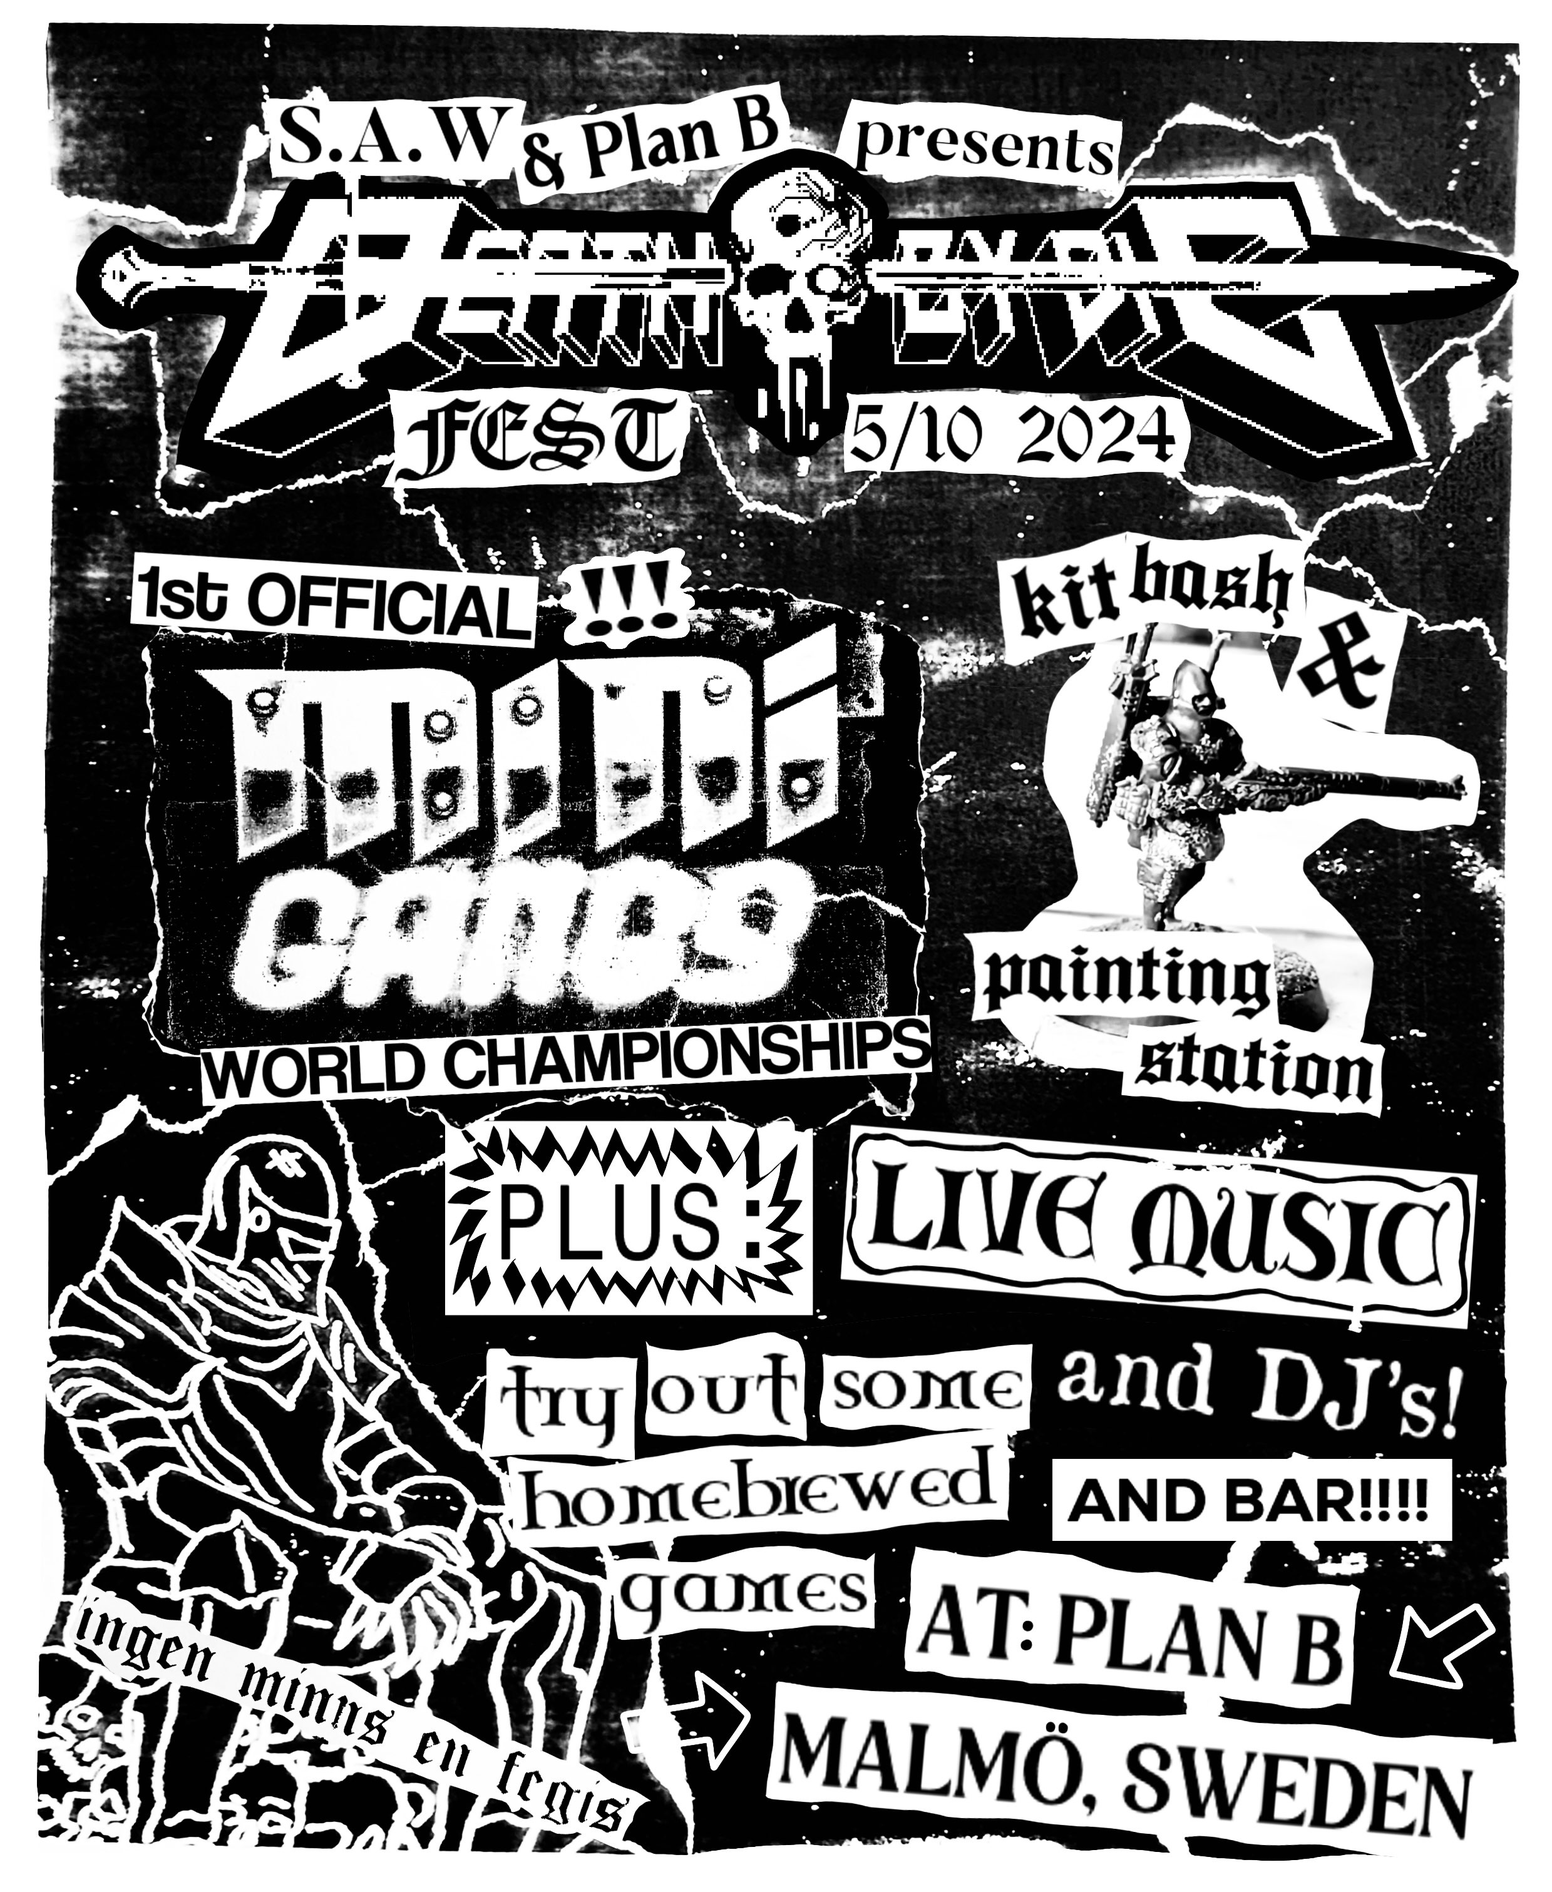
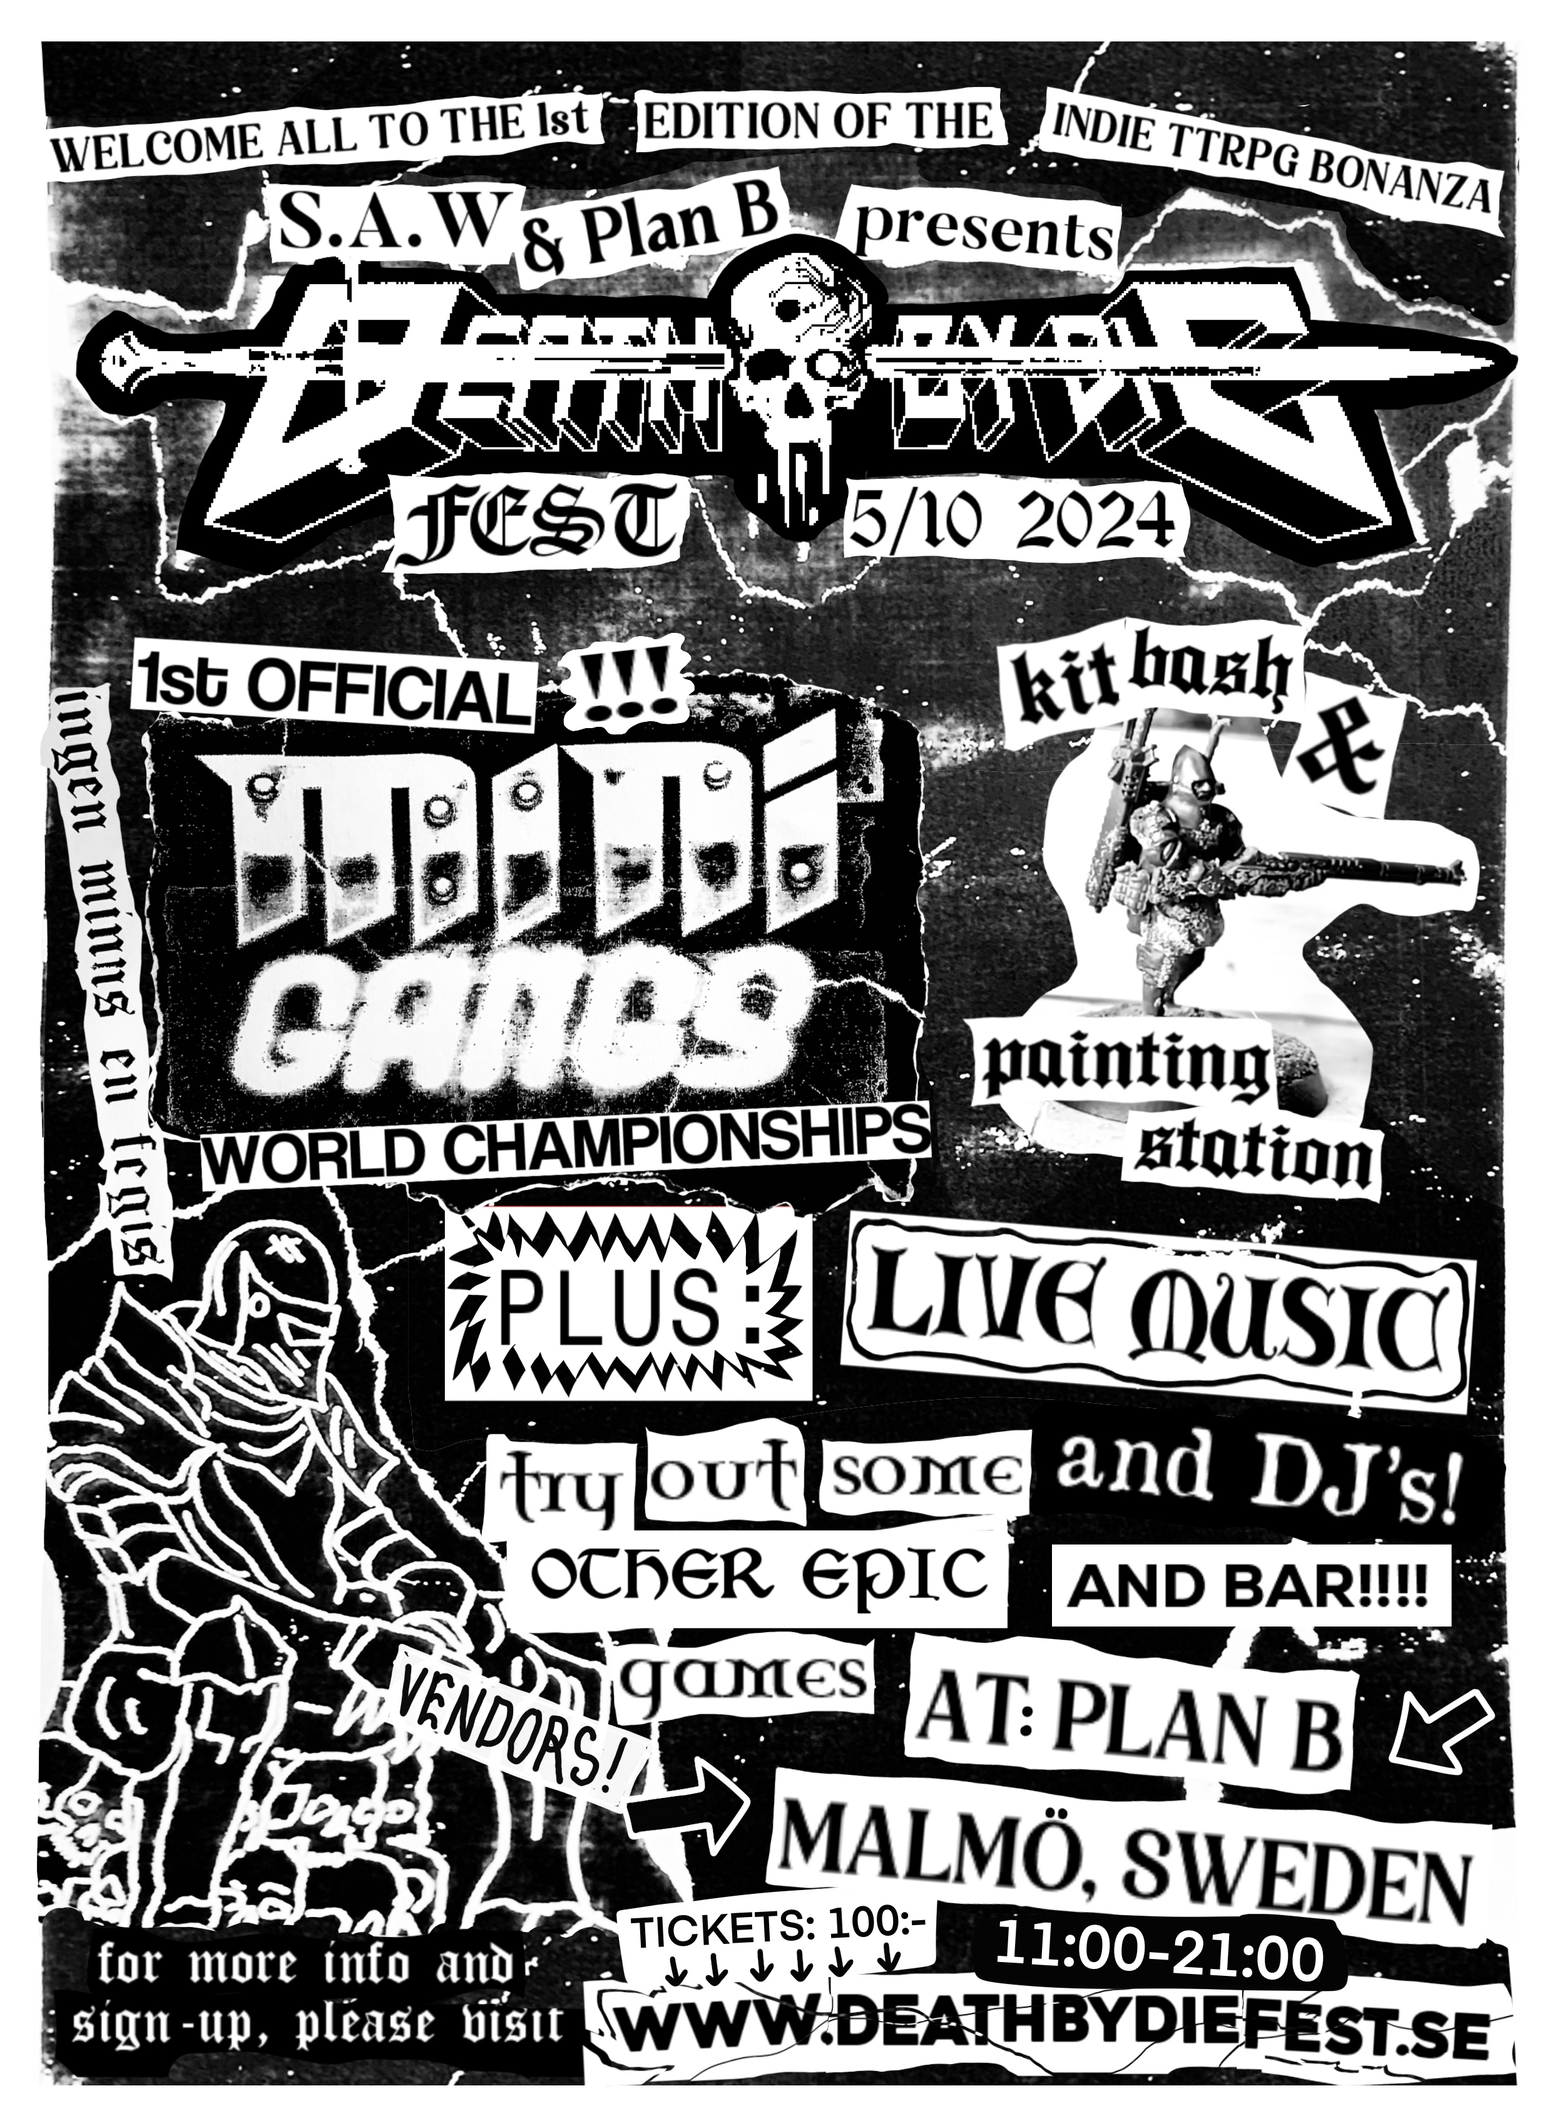
changed text and images

diff --git a/index.html b/index.html
@@ -14,7 +14,7 @@
     <script src="https://cdnjs.cloudflare.com/ajax/libs/materialize/1.0.0/js/materialize.min.js"></script>
     <script type="text/javascript" src="https://code.jquery.com/jquery-2.1.1.min.js"></script>
     <!-- Compiled and minified JavaScript -->
-    <script src="https://cdnjs.cloudflare.com/ajax/libs/materialize/1.0.0/js/materialize.min.js"></script>  
+    <script src="https://cdnjs.cloudflare.com/ajax/libs/materialize/1.0.0/js/materialize.min.js"></script>
 </head>
 
 <body>
@@ -23,19 +23,18 @@
             <div class="nav-wrapper">
 
                 <a href="#" class="brand-logo"></a>
-                <a href="#" data-target="slide-out" class="rigth sidenav-trigger"><i
-                class="material-icons">menu</i></a>
+                <a href="#" data-target="slide-out" class="rigth sidenav-trigger"><i class="material-icons">menu</i></a>
 
                 <ul id="nav-mobile" class="right hide-on-med-and-down">
                     <li><a href="#dbd">Death By Die Fest</a></li>
                     <li><a href="#event">Event info and schedule</a></li>
                     <li><a href="#signup">Championship info and sign up</a></li>
                     <li><a href="#saw">S.A.W</a></li>
-                    
+
                 </ul>
             </div>
         </nav>
-       
+
     </div>
     <ul class="sidenav" id="slide-out">
         <li><img class="sidenavimg" src="./sidenavimg.png" alt=""></li>
@@ -49,13 +48,13 @@
             <span class="linkSpacer" id="dbd"></span>
 
             <div class="col s12 center-align">
-                <h1 ></h1>
+                <h1></h1>
             </div>
-            <div class="col l12 s12 center-align">
-                <img class="responsive-img" class="poster" src="poster.webp" alt="">
+            <div class="col l8 offset-l2 s12 center-align">
+                <img class="responsive-img" class="poster" src="poster.jpeg" alt="">
             </div>
             <div class="col l6 s12 valign-wrapper">
-                <p</p>
+                <p< /p>
             </div>
         </div>
 
@@ -64,86 +63,140 @@
             <div class="row">
                 <span class="linkSpacer" id="event"></span>
                 <div class="col s12 center-align">
-                    <h1 >Event info & Schedule</h1>
+                    <h1>Event info & Schedule</h1>
                 </div>
                 <div class="col offset-l1 l5 s12 textBox">
-                    <p><h2>Welcome all to the 1st edition of the indie TTRPG bonanza that we call DEATH BY DIE FEST 2024!</h2>
-                        <br />
-                        On the 5th of October you can join us at PlanB in Malmö, southern Sweden for a day full of TTRPG madness and kitbashing!<br /> 
-                        <br />
-                       <h3> MINIGANGS WORLD CHAMPIONSHIPS!</h3>
-                        We are running the first ever World Championships of MiniGangs! A very beginner friendly game written by Curtis Fell at Ramshackle Games! <br />
-                        But don’t be fooled - it can also be very treacherous even for the more experienced players! But all in all: just tons of fun!<br />
-                        To participate in this tournament you can either bring your own 4 custom minis - or you can borrow a gang that we built and painted for the event! <br />
-                        The rules are literally only two pages and can be downloaded here: <a target="_blank" href="http://downloads.ramshacklegames.co.uk/MiniGangs/MiniGangs_Gateway_web.pdf">ramshacklegames.co.uk</a>
-                        <br /> <br />
-                        We will adjust the rules slightly for tournament play - but we’ll explain all this when we meet at the fest! <br />
-                        There’s 24 places for the tournament - and you’ll need to sign up on the form below, plus give us 5€ of you hard earned money! (Don’t worry - they’ll be invested straight into the production of some epic boards!)<br />
-                        <br />
-                        <h3>“OTHER GAMES? YES OF COURSE!”</h3>
-                        There will also be a number of other games set up for everyone to play! Forbidden Psalm, Mordheim and The Last War - to name a few! Join our discord server and talk to other players and set up some battles here:<br />
-                        <a  target="_blank"  href=" https://discord.gg/u8D8QaYV">discord.gg/u8D8QaYV</a><br />
-                        <br />
-                        And of course - there shall be kitbashing! Free for all! And you can even enter the competition - where Veronica Levin (<a target="_blank" href="https://www.instagram.com/florescentia.grotesque">@florescentia.grotesque</a>) & Ben Sandrock (<a target="_blank" href="https://www.instagram.com/ben_has_hobbies"> @ben_has_hobbies </a>) will decide who’s the most crazy of you all!<br />
-                        <br />
-                        To finish it all if there will be some live music and DJ’s! We’ll announce the artist a bit later on - but let’s just say we have some goodies for you… <br />
-                        <br />
-                        Hope to see you all on the 5th of October in Malmö!<br />
-                        <br />
-                        (Since you are here you are probably already following us who organize this thing on instagram - we’ll post all the updates on that platform first!)</p>
+                    <p>
+                    <h2>Welcome all to the 1st edition of the indie TTRPG bonanza that we call DEATH BY DIE FEST 2024!
+                    </h2>
+                    <br />
+
+                    On the 5th of October you can join us at PlanB in Malmö, southern Sweden for a day full of TTRPG
+                    madness and kitbashing!
+
+                    <br /><br />
+                    We are running the first ever World Championships of MiniGangs!
+                    <br />
+                    A very beginner friendly game written by Curtis Fell at Ramshackle Games!
+                    <br />
+                    But don’t be fooled - it can also be very treacherous even for the more
+                    <br />
+                    experienced players!
+                    <br />
+                    But all in all: just tons of fun!
+                    <br />
+                    To participate in this tournament you can either bring your own 4 custom minis
+                    <br />
+                    - or you can borrow a gang that we built and painted for the event!
+                    <br />
+                    The rules are literally only two pages and can be downloaded here:
+
+                    <br />
+
+                    <a target="_blank"
+                        href="http://downloads.ramshacklegames.co.uk/MiniGangs/MiniGangs_Gateway_web.pdf">ramshacklegames.co.uk</a>
+
+
+                        <br /> <br />       
+                    We will adjust the rules slightly for tournament play
+                    <br />
+                    - but we’ll explain all this when we meet at the fest!
+                    <br />
+                    There’s 27 places played over 3 tables and 3 heats for the tournament, plus the finals
+                    <br />
+                    And you’ll need to sign up on the form below, plus give us 5€ of you hard earned money!
+                    <br />
+                    (Don’t worry - they’ll be invested straight into the production of some epic boards!
+                    <br />
+                    This amount you will be able to pay on the day! But please consider your application as binding
+                    nevertheless…)
+
+                    <br /><br />
+
+                    “OTHER GAMES? YES OF COURSE!”
+                    <br />
+                    There will also be a number of other games set up for everyone to play! Forbidden Psalm and The Last
+                    War - to name a few! Join our discord server and talk to other players and set up some battles here:
+                    <br />
+                    <a target="_blank" href=" https://discord.gg/u8D8QaYV">discord.gg/u8D8QaYV</a><br />
+                    <br />
+                    The makers of Europas Ruiner and Rost o Rota will set up and demonstrate their games during the day
+                    - and will be able to let you dive in for a minute, or hours!
+                    <br />
+
+                    NOT BASHING SKULLS ON THE BATTLEFIELD? BASH PLASTIC INSTEAD!
+                    <br />
+                    And of course - there shall be kitbashing! Free for all! And you can even enter the competition -
+                    where Veronica Levin (@florescenta.grotesque) & Ben Sandrock (@ben_has_hobbies) will decide who’s
+                    the most crazy of you all!
+                    <br />
+                    <br />
+
+
+
+                    WE WILL ENTERTAIN YOU!
+                    <br />
+                    To finish it all if there will be some vendors, live music and DJ’s! We’ll announce the artists a
+                    bit later on - but let’s just say we have some goodies for you…
+                    <br />
+
+
+                    If you have any questions at all - feel free to ask away in our discord server!
+                    <br />
+
+
+                    Hope to see you all on the 5th of October in Malmö!
+                    <br />
+                    / Scania Alternative Wargamers
                 </div>
                 <div class="col  offset-l1 l4 s12 textBox">
                     <p>
-                        <h2>Schedule</h2>
-                        <ul>
-                            <li>
-                                10.00 - Doors
-                            </li>
-                            <li>
-                                10.30 - Information about world championship
-                            </li>
-                            <li>
-                                11.00 - World championship start
-                            </li>
-                            <li>
-                                11.30 - Kitbash bonanza
-                            </li>
-                            <li>
-                                12.00 - Forbiden psalm mini event
-                            </li>
-                            <li>
-                                12.30 - Last war mini event
-                            </li>
-                        </ul>
-                    </p>
-                    
+                    <h2>Schedule</h2>
+                    <ul>
+                        <li>
+                            11.00 - Doors Open
+                        </li>
+                        <li>
+                            12.00 - Introductory Speech
+                        </li>
+                        <li>
+                            13.00 - Minigangs World Championships Starts
+                        </li>
 
-                   
+                    </ul>
+                    </p>
+
+
+                    <img class="responsive-img miscImg" src="helmet.png" />
                 </div>
-                
-               
+
+
             </div>
         </div>
         <div class="section">
             <div class="row">
                 <span class="linkSpacer" id="signup"></span>
                 <div class="col s12 center-align">
-                    <h1 >Championship info and sign up</h1>
+                    <h1>Championship info and sign up</h1>
                 </div>
                 <div class="col offset-l1 l5 s12 textBox">
-                    <p><h2>Minigangs world championship</h2>
-                        <br />
-                        We will play three table, king of the hill
-                        <br />
-                       <h3> Rules</h3>
-                       All games are played by the Casual minigangs rules, stated in the rule book </p>
-
-                     </div>
+                    <p>
+                    <h2>Minigangs world championship</h2>
+                    <br />
+                    There’s 27 places played over 3 tables and 3 heats for the tournament, plus the finals
+                    And you’ll need to sign up on the form below, plus give us 5€ of you hard earned money!
+                    (Don’t worry - they’ll be invested straight into the production of some epic boards!
+                    This amount you will be able to pay on the day! But please consider your application as binding nevertheless…)
+                    <br />
+                    <h3> Rules</h3>
+                    All games are played by the Casual minigangs rules, stated in the rule book </p>
+                    <img class="responsive-img miscImg" src="orc.png" />
+                </div>
                 <div class="col l5 s12">
 
                     <iframe
                         src="https://docs.google.com/forms/d/e/1FAIpQLScZ-mNyFXVqvWa9euaVf_p_MzyATvTP6JpJ8aNGQh5v9ROxNw/viewform?embedded=true"
-                        width="640" height="979" frameborder="0" marginheight="0" marginwidth="0">Läser in …</iframe>
+                        width="640" height="1600" frameborder="0" marginheight="0" marginwidth="0">Läser in …</iframe>
                     </form>
                 </div>
             </div>
@@ -153,11 +206,13 @@
             <div class="row">
                 <span class="linkSpacer" id="saw"></span>
                 <div class="col s12 center-align">
-                    <h1 >S.A.W</h1>
+                    <h1>S.A.W</h1>
                 </div>
                 <div class="col l6 center-align"><img class="responsive-img" class="infoPic" src="pic.webp" /></div>
                 <div class="col l6 s12">
-                    <p>Skåne Alternative Wargaming is an association started in 2024 in Malmö. The goal was to create an open and welcoming environment for playing figure games, without being particularly competitive but more focused on socializing and building cool shit</p>
+                    <p>Skåne Alternative Wargaming is an association started in 2024 in Malmö. The goal was to create an
+                        open and welcoming environment for playing figure games, without being particularly competitive
+                        but more focused on socializing and building cool shit</p>
                 </div>
             </div>
         </div>
@@ -173,7 +228,8 @@
                         <li> <a href="https://ramshacklegames.co.uk/" target="_blank"> <img class="responsive-img"
                                     src="https://ramshacklegames.co.uk/wp-content/uploads/2018/05/Ramshackle-logo-trans.png" /></a>
                         </li>
-                        <li> <a href="https://www.planbmalmo.com/" target="_blank"><img class="responsive-img" src="pb.jpeg" /></a></li>
+                        <li> <a href="https://www.planbmalmo.com/" target="_blank"><img class="responsive-img"
+                                    src="pb.jpeg" /></a></li>
                         <li> <a href="https://www.crookedmoonbrewing.com/" target="_blank"><img class="responsive-img"
                                     src="https://www.hembryggeriet.se/storage/manufacturers/95-4bl6q.webp" /></li></a>
 
@@ -198,9 +254,9 @@
     </footer>
     <script>
         $(document).ready(function () {
-          $(".sidenav").sidenav();
+            $(".sidenav").sidenav();
         });
-      </script>
+    </script>
 </body>
 
 

diff --git a/style.css b/style.css
@@ -24,6 +24,11 @@ iframe {
     width: 100%;
 }
 
+.miscImg {
+    max-width: 50% !important;
+    margin-left: 25%;
+}
+
 .sidenav {
     background-color: #262525 !important;
 
